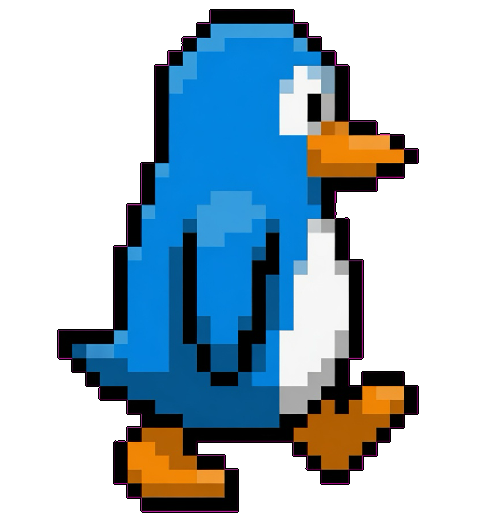
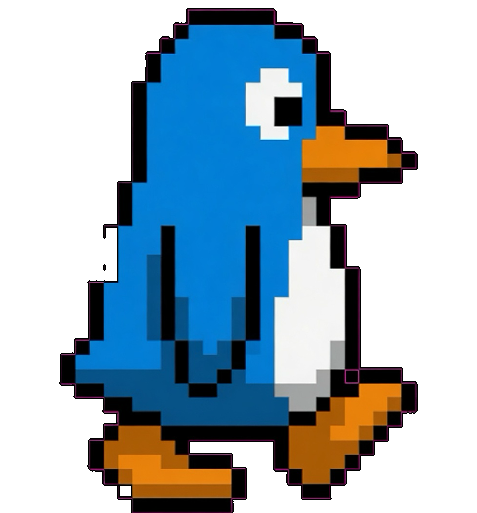
fix: side walk eyes, feet-together plant, opposite back leg
Match side-1/side-2 eyes to the idle profile; make side-2 a feet-together
plant frame instead of a second raised foot; set up-2 to a horizontal
mirror of up-1 so back walk alternates the other raised leg.

Changed region(s): [[0.1174, 0.0, 0.8805, 1.0]]

diff --git a/src/appVersion.ts b/src/appVersion.ts
@@ -5,4 +5,4 @@
  * feature ships — patch for fixes, minor for features, major for breaking
  * changes. Keep both files in sync.
  */
-export const APP_VERSION = '1.23.1';
+export const APP_VERSION = '1.23.2';

diff --git a/scripts/reference/penguin/README.md b/scripts/reference/penguin/README.md
@@ -30,12 +30,25 @@ Side idle + walk plates regenerated with Grok Imagine from the front idle
 no diagonal seam artifacts). Sources under `imagine-side-v4/`; game inputs
 `poses/side-{0,1,2}.png`.
 
+Side walk frames:
+
+| Frame | Pose |
+|-------|------|
+| side-0 | idle — both feet planted |
+| side-1 | mid-stride — one foot stepped |
+| side-2 | plant — feet together (not the opposite raised foot) |
+
+Eyes match across side-0 / side-1 / side-2.
+
 ## Back facing (v3)
 
 Back idle + walk plates regenerated from the same front idle anchor. Walk
 steps **away from the camera** (raised foot partially under the body; planted
 foot toward the camera). Sources under `imagine-back-v3/`. Pipeline always
 runs `repairExternalOutline` so every facing shares a clean 1px exterior rim.
+
+`up-2` is a horizontal mirror of `up-1` so the walk cycle truly alternates
+the other raised leg.
 
 ## Wave (Imagine)
 
